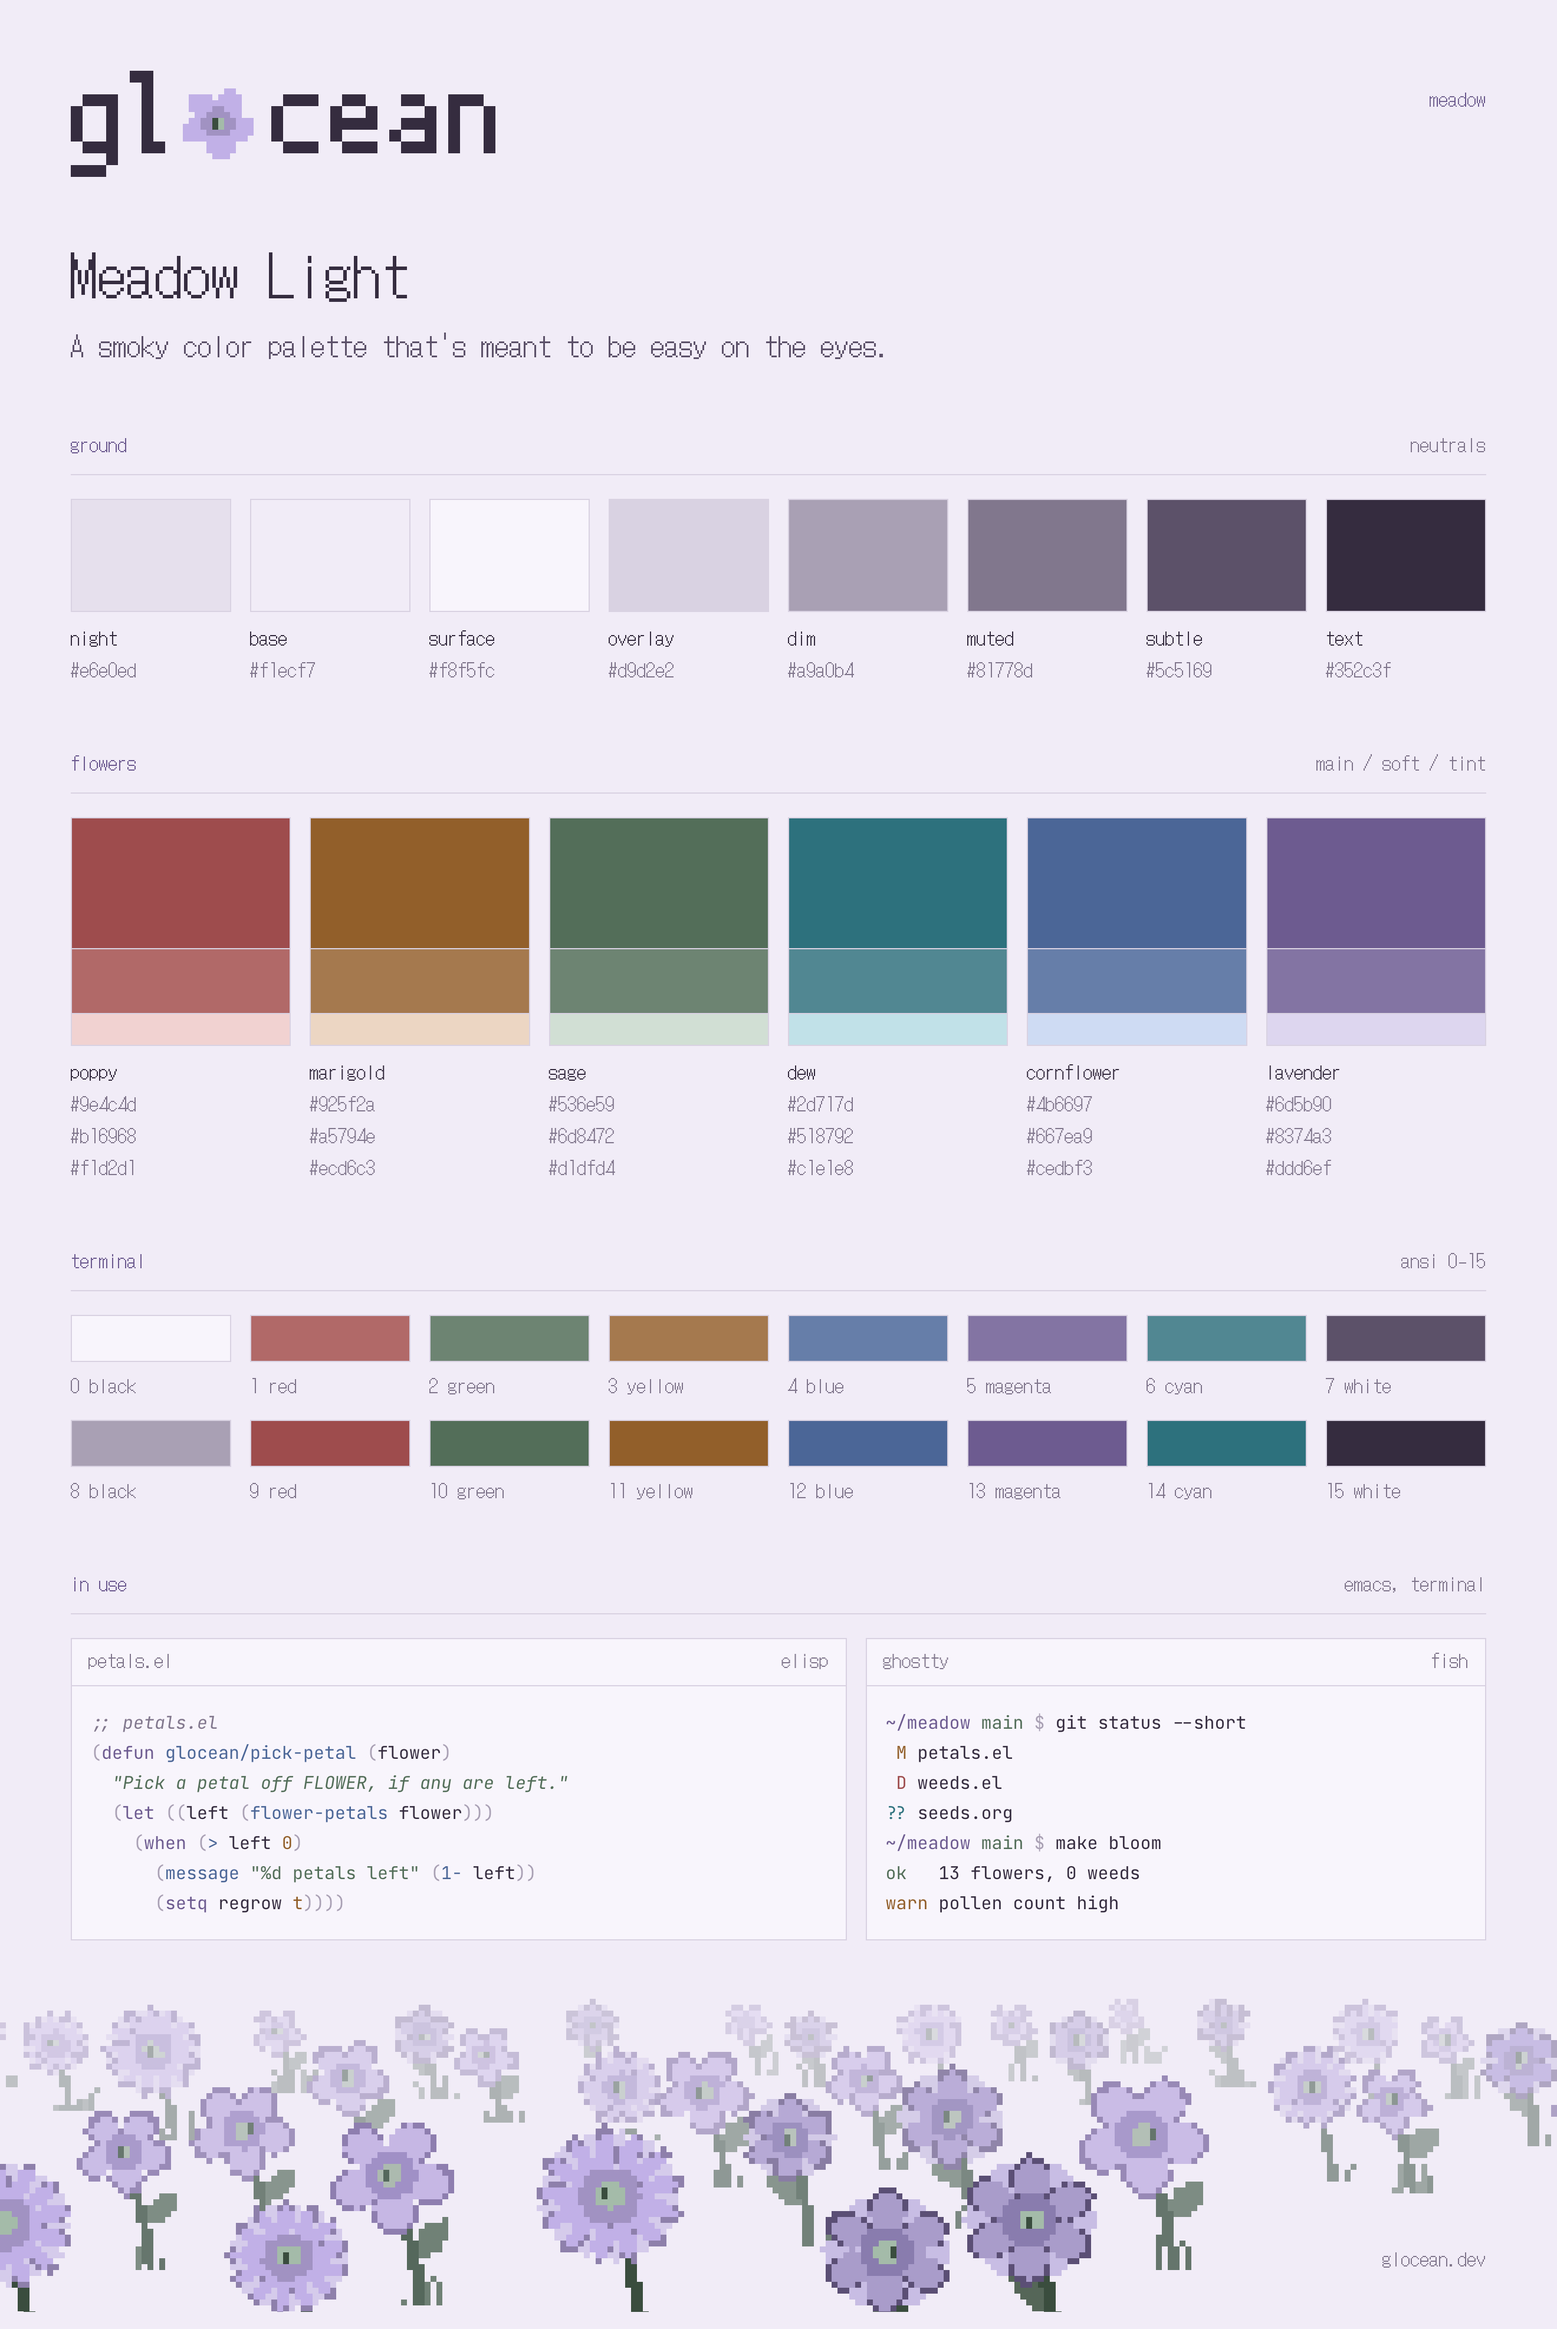
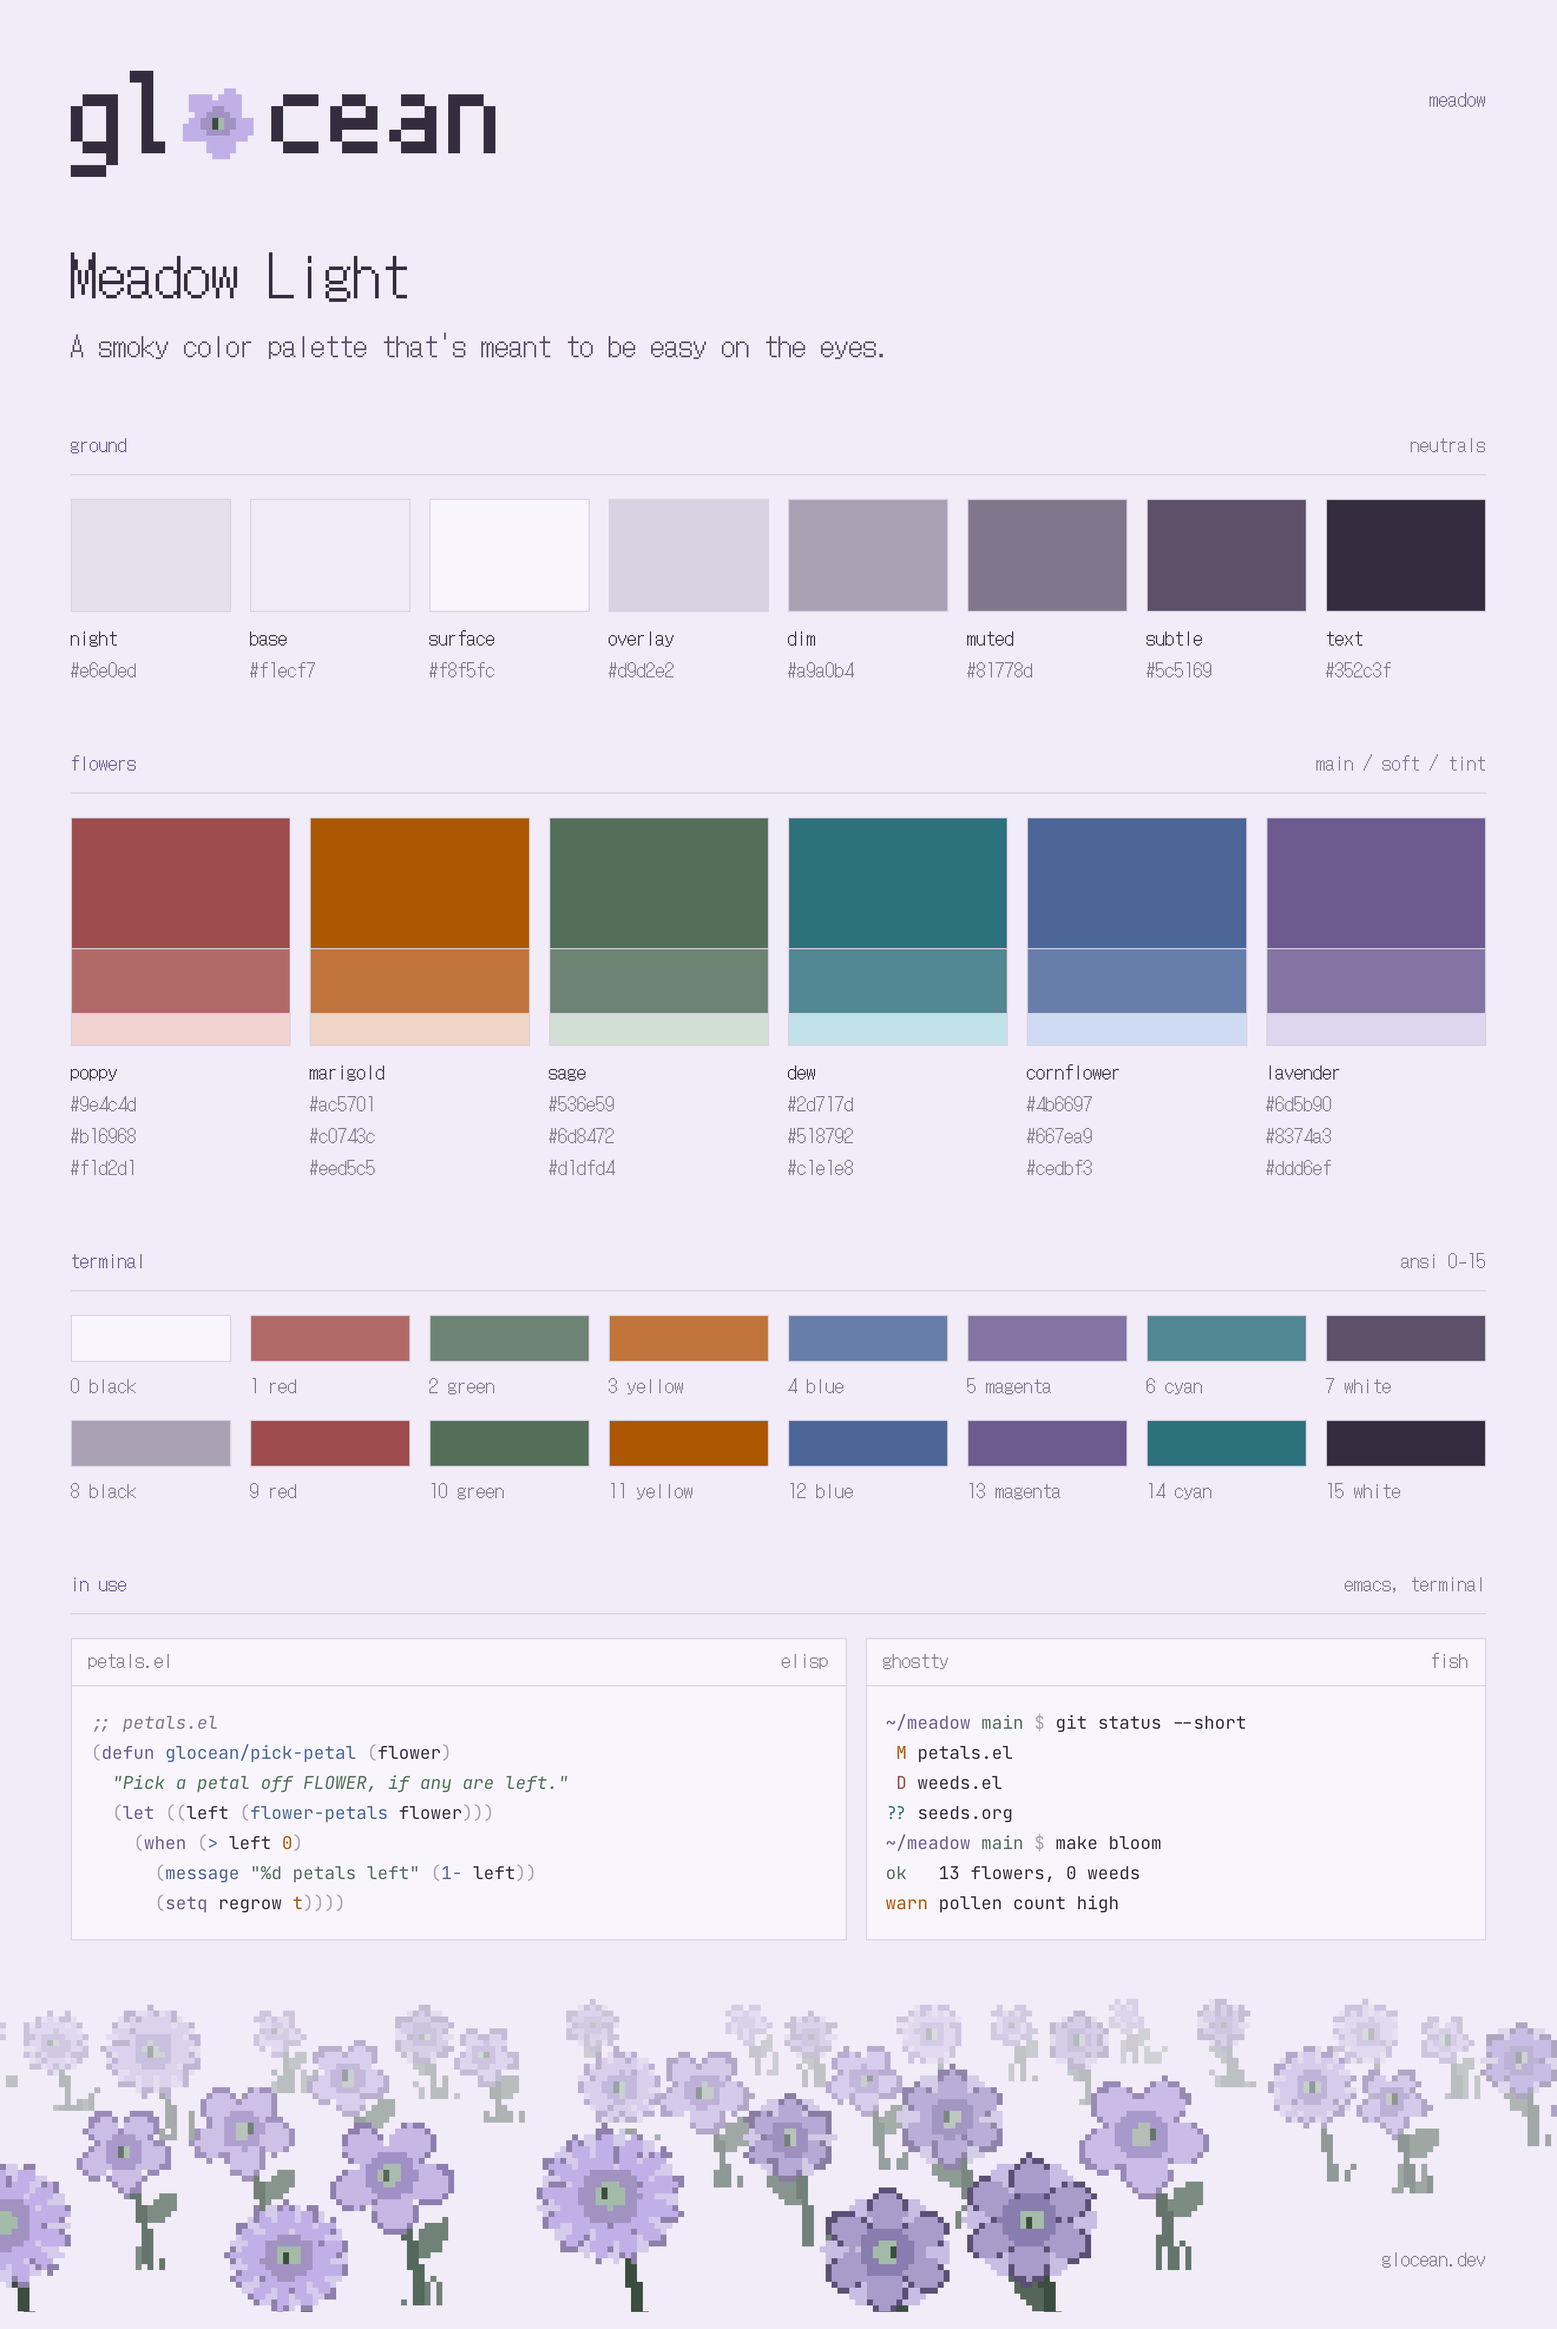
palette: make meadow light marigold orange

Changed region(s): [[0.1864, 0.3425, 0.3417, 0.4359], [0.3727, 0.5605, 0.497, 0.6539]]

diff --git a/GUIDELINES.md b/GUIDELINES.md
@@ -37,7 +37,7 @@ There are six flowers, and each one comes in three shades:
 | Flower | Meadow (main / soft / tint) | Meadow Light (main / soft / tint) |
 |---|---|---|
 | poppy | `#d68583` `#b06a69` `#623b3b` | `#9e4c4d` `#b16968` `#f1d2d1` |
-| marigold | `#e9b17c` `#c49365` `#5d4127` | `#925f2a` `#a5794e` `#ecd6c3` |
+| marigold | `#e9b17c` `#c49365` `#5d4127` | `#ac5701` `#c0743c` `#eed5c5` |
 | sage | `#a4bba9` `#879b8c` `#3a4d3e` | `#536e59` `#6d8472` `#d1dfd4` |
 | dew | `#84c7d5` `#6ca6b2` `#1e5059` | `#2d717d` `#518792` `#c1e1e8` |
 | cornflower | `#9cb8eb` `#8099c5` `#374866` | `#4b6697` `#667ea9` `#cedbf3` |
@@ -120,7 +120,7 @@ Italics are used for comments and docstrings only (and quotes in markup). If the
 | 0 | black | `#2a2431` | `#f8f5fc` |
 | 1 | red | `#b06a69` | `#b16968` |
 | 2 | green | `#879b8c` | `#6d8472` |
-| 3 | yellow | `#c49365` | `#a5794e` |
+| 3 | yellow | `#c49365` | `#c0743c` |
 | 4 | blue | `#8099c5` | `#667ea9` |
 | 5 | magenta | `#a192c2` | `#8374a3` |
 | 6 | cyan | `#6ca6b2` | `#518792` |
@@ -128,7 +128,7 @@ Italics are used for comments and docstrings only (and quotes in markup). If the
 | 8 | bright black | `#5f5769` | `#a9a0b4` |
 | 9 | bright red | `#d68583` | `#9e4c4d` |
 | 10 | bright green | `#a4bba9` | `#536e59` |
-| 11 | bright yellow | `#e9b17c` | `#925f2a` |
+| 11 | bright yellow | `#e9b17c` | `#ac5701` |
 | 12 | bright blue | `#9cb8eb` | `#4b6697` |
 | 13 | bright magenta | `#c1b0e7` | `#6d5b90` |
 | 14 | bright cyan | `#84c7d5` | `#2d717d` |

diff --git a/README.md b/README.md
@@ -14,7 +14,7 @@ Eight neutrals for the ground colors, and six flower shades that each come in a 
 | Flower | Meadow | Meadow Light |
 |---|---|---|
 | poppy | `#d68583` | `#9e4c4d` |
-| marigold | `#e9b17c` | `#925f2a` |
+| marigold | `#e9b17c` | `#ac5701` |
 | sage | `#a4bba9` | `#536e59` |
 | dew | `#84c7d5` | `#2d717d` |
 | cornflower | `#9cb8eb` | `#4b6697` |
